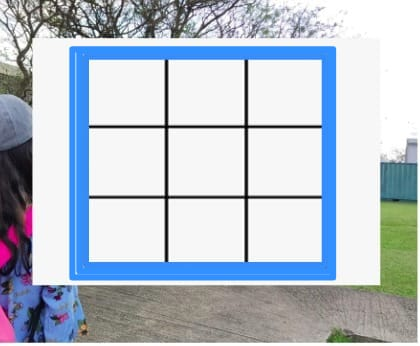
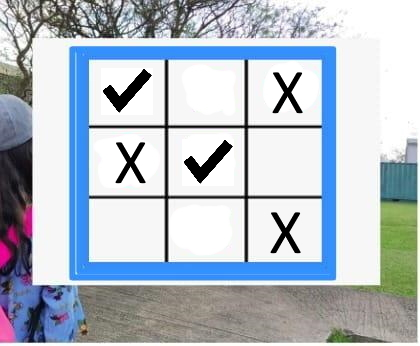
Updated ttt.py using template matching

diff --git a/scripts/ttt.py b/scripts/ttt.py
@@ -5,10 +5,72 @@ import numpy as np
 class tttDetection:
     
     def __init__(self):
-        #self.capture = cv2.VideoCapture(0)
-        self.frame = cv2.imread("./ttt1.jpeg")
+        self.capture = cv2.VideoCapture(0)
+        #self.frame = cv2.imread("./ttt1.jpeg")
+
+        player1 = cv2.imread("player1.png")
+        player1_gray = 255 - cv2.cvtColor(player1, cv2.COLOR_BGR2GRAY)
         
+        _, thresh1 = cv2.threshold(player1_gray, 127, 255, 0)
+        contours, _ = cv2.findContours(thresh1, cv2.RETR_TREE, cv2.CHAIN_APPROX_SIMPLE)
+        self.player1_cnt = contours[0]
+
+        player2 = cv2.imread("player2.png")
+        player2_gray = 255 - cv2.cvtColor(player2, cv2.COLOR_BGR2GRAY)
+
+        _, thresh2 = cv2.threshold(player2_gray, 127, 255, 0)
+        contours, _ = cv2.findContours(thresh2, cv2.RETR_TREE, cv2.CHAIN_APPROX_SIMPLE)
+        self.player2_cnt = contours[0]
+
+    def filter_small(self, contours, min_area):
         
+        filtered_contours = []
+
+        for contour in contours:
+            if cv2.contourArea(contour) >= min_area:
+                filtered_contours.append(contour)
+
+        return filtered_contours
+
+    def match_shape(self, square_cnts, max_tolerance):
+        for contour in square_cnts:
+                        
+            if cv2.matchShapes(contour, self.player1_cnt, 1, 0.0) < max_tolerance:
+                print("player1")
+                return "player1"
+
+            elif cv2.matchShapes(contour, self.player2_cnt, 1, 0.0) < max_tolerance:
+                print("player2")
+                return "player2"
+
+        return "not played"
+    
+    def most_frequent(self, list):
+
+        counter = 0
+        result = list[0]
+     
+        for i in list:
+            frequency = list.count(i)
+            if(frequency > counter):
+                counter = frequency
+                result = i
+
+        return result
+
+    def get_common(self, boards):
+        board_common = [[], [], []]
+        for i in range(3):
+            for j in range(3):
+                play = []
+                for board in boards:
+                    play.append(board[i][j])
+                #play = np.array(play)
+                board_common[i].append(self.most_frequent(play))
+        
+        return board_common
+
+      
     def get_mask(self, hsv , lower_color , upper_color):
         # Monta a mascara com os ranges selecionados
         lower = np.array(lower_color)
@@ -18,10 +80,11 @@ class tttDetection:
 
     def get_square_area(self,img):
         # Retorna uma lista com os quadrados que tem area maior ou igual a min_area
-        squareDetected = 0
+        square_detected = 0
+
         min_area = 6000 # Area minima para um quadrado ser contabilizado
     
-        contours,junk=cv2.findContours(img,cv2.RETR_EXTERNAL,cv2.CHAIN_APPROX_SIMPLE)
+        contours, _ = cv2.findContours(img, cv2.RETR_EXTERNAL, cv2.CHAIN_APPROX_SIMPLE)
         # Se quiser ver os contornos:
         #cv2.drawContours(self.frame,contours,-1,(255,0,0),3)
         
@@ -30,24 +93,23 @@ class tttDetection:
             if area >= min_area:
 
                 x,y,w,h=cv2.boundingRect(contour)
-                squareDetected = [x,y,w,h]
+                square_detected = [x,y,w,h]
+
                 # Desenha um retangulo em torno do quadrado detectado (opcional)
                 #cv2.rectangle(self.frame,(x,y),(x+w,y+h),(0,0,255),3)
 
-        return squareDetected
+        return square_detected
 
-    def getSquares (self, image):
+    def get_squares (self, image):
         
         # Mascara azul
         # Calibrar antes de usar
-
-        lower_blue = [ 79, 97, 173]
-        upper_blue = [ 153, 218, 255]
+        lower_blue = [ 96, 85, 0]
+        upper_blue = [ 145, 230, 255]
 
         # Criando as máscaras
         hsv = cv2.cvtColor(image, cv2.COLOR_BGR2HSV)
         blue_mask = self.get_mask(hsv, lower_blue, upper_blue)
-
 
         # Os passos abaixo servem só para melhorar a visualizacao
         # da mascara para o usuario, nao interferem na deteccao
@@ -62,50 +124,87 @@ class tttDetection:
         blue_result = cv2.dilate(blue_result, dilate_kernel)
         blue_result = cv2.erode(blue_result, erode_kernel)
 
-
         # Retorna a contagem de quadrados verdes e vermelhos e as imagens para visualizacao das mascaras
         return self.get_square_area(blue_mask), blue_result
     
-    def detect_board(self):
+    def detect_board(self, tries = 1, max_tolerance = .6, wait_time = 50):
+        boards = []
+        for _ in range(tries):
+            success, self.frame = self.capture.read(0)
+            if success == False:
+                raise ConnectionError
 
-        # success, self.frame = self.capture.read(0)
-        # if success == False:
-        #     raise ConnectionError
+            board, blue_image = self.get_squares(self.frame)
 
-        board, blue_image = self.getSquares(self.frame)
+            if board != 0:
 
-        # Para ver as imagens das mascaras aplicadas e da camera usada
+                # Para ver as imagens das mascaras aplicadas e da camera usada
+                x,y,w,h = board
 
-        x,y,w,h = board
+                """
+                board_squaresX = [ 
+                    [x + w * (1/6), x + w * (3/6), x + w * (5/6)],
+                    [x + w * (1/6), x + w * (3/6), x + w * (5/6)],
+                    [x + w * (1/6), x + w * (3/6), x + w * (5/6)]
+                ]
 
-        board_squaresX = [ 
-            [x + w * (1/6), x + w * (3/6), x + w * (5/6)],
-            [x + w * (1/6), x + w * (3/6), x + w * (5/6)],
-            [x + w * (1/6), x + w * (3/6), x + w * (5/6)]
-        ]
+                board_squaresY = [ 
+                    [y + h * (3/6), y + h * (3/6), y + h * (3/6)],
+                    [y + h * (5/6), y + h * (5/6), y + h * (5/6)],
+                    [y + h * (1/6), y + h * (1/6), y + h * (1/6)]
+                ]
+                """
+                
+                board_simple = [[], [], []]
+                frame_gray = cv2.cvtColor(self.frame, cv2.COLOR_BGR2GRAY)
+                _, frame_thresh = cv2.threshold(frame_gray, 127, 255,0)
 
-        board_squaresY = [ 
-            [y + h * (3/6), y + h * (3/6), y + h * (3/6)],
-            [y + h * (5/6), y + h * (5/6), y + h * (5/6)],
-            [y + h * (1/6), y + h * (1/6), y + h * (1/6)]
-        ]
+                cv2.imshow("frame threshold", frame_thresh)
 
-        for i in range(3):
-            for j in range(3):
-                cv2.circle(self.frame,(round(board_squaresX[i][j]),round(board_squaresY[i][j])), 3, (0,0,255), -1)
+                for i in range(3):
+                    for j in range(3):
+                        
+                        square = frame_thresh[(y + h * (j)//3) : (y + h * (j + 1)//3), (x + w * (i)//3) : (x + w * (i + 1)//3)]
+                        square_cnts, _ = cv2.findContours(square, cv2.RETR_TREE, cv2.CHAIN_APPROX_SIMPLE)
+                        square_cnts = self.filter_small(square_cnts, 25)
 
-        cv2.imshow('blue', blue_image)
-        cv2.imshow('blue2', self.frame)
-        if cv2.waitKey(20): key = cv2.waitKey(20)  
-        return board_squaresX, board_squaresY
+                        print("row: ", j + 1, "collum: ", i + 1)
 
+                        board_simple[i].append(self.match_shape(square_cnts, max_tolerance))
+
+                        print("------------------")
+                        square = cv2.cvtColor(square, cv2.COLOR_GRAY2BGR)
+                        cv2.imshow("", square)
+
+                cv2.waitKey(wait_time)
+                cv2.imshow('blue', blue_image)
+                print("#----------------#")
+                boards.append(board_simple)
+            
+        board_simple = self.get_common(boards)
+        print("result after", tries, "tries:")
+        print(board_simple)
+        return board_simple
 
 # Enquanto não chegar ao fim do tubo, ir lendo os sensores da tela
 if __name__ == "__main__":
+    
+    #adjust the board
+    while(True):
+
+        capture = cv2.VideoCapture(0)
+        success, frame = capture.read(0)
+        if cv2.waitKey(1) == ord(" "):
+            break
+        cv2.imshow("line up board", frame)
+        
+    capture.release()
+
     detecting = tttDetection()
     while True:
-        detecting.detect_board()         
-            
+        board = detecting.detect_board(25)
+        cv2.waitKey(0)
+
     detecting.capture.release()
     cv2.destroyAllWindows()
 
